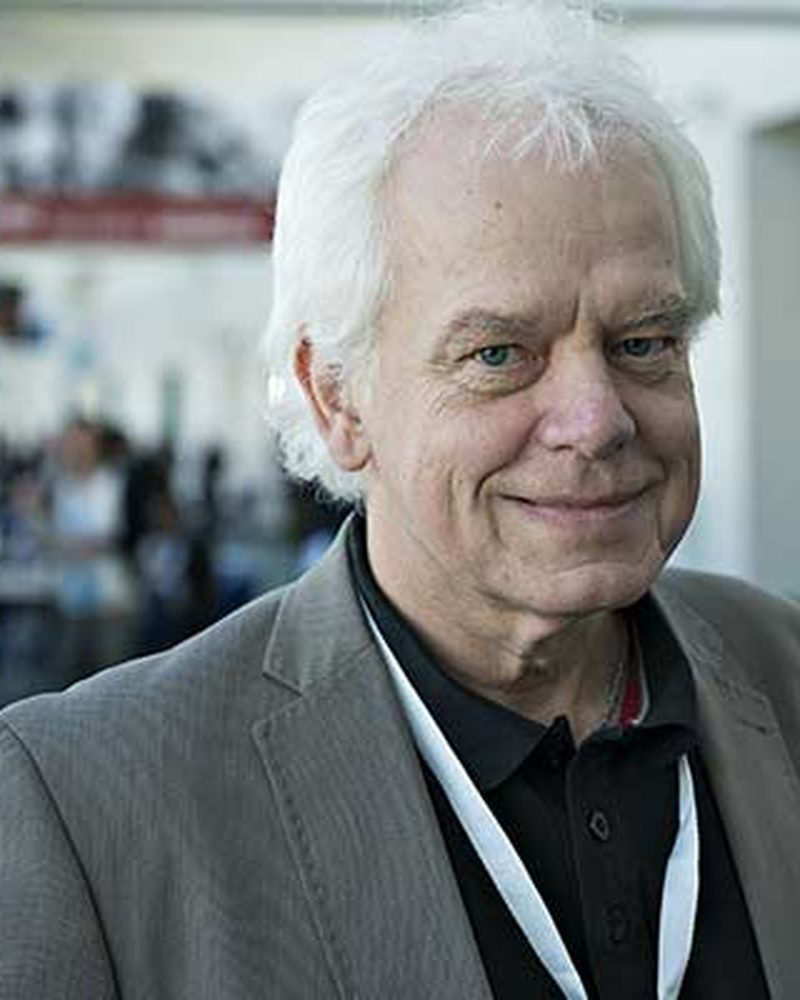
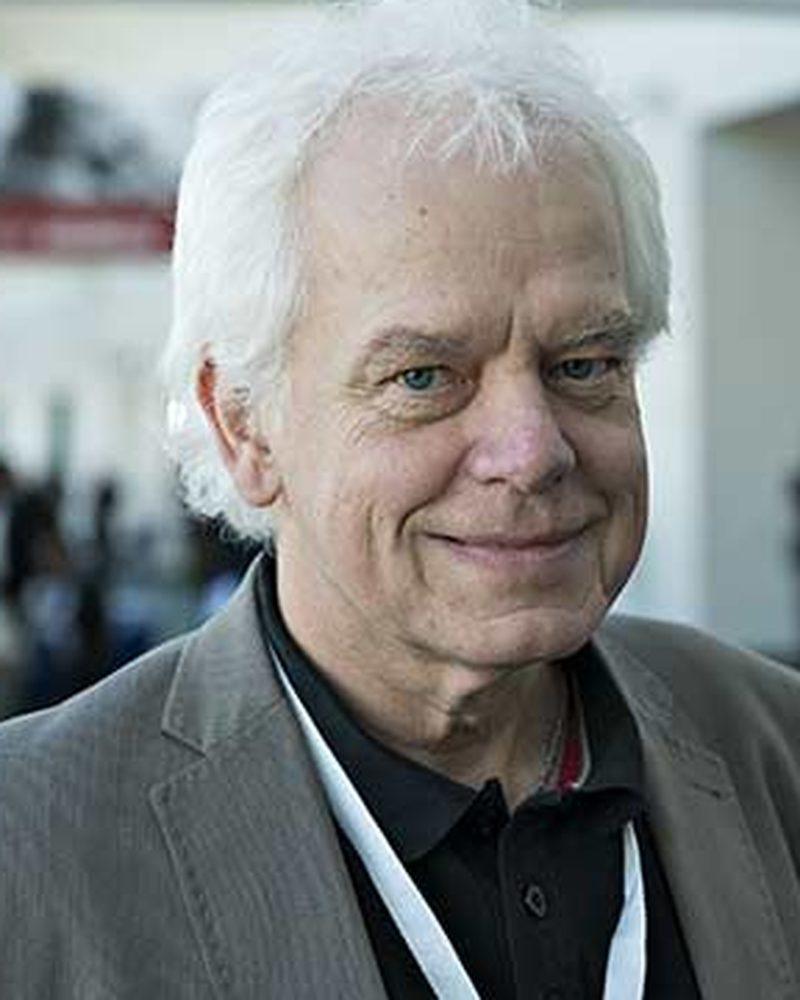
Center Niels's portrait; update Lene and Henrik bios with ORCID; add NMSG history
Claude-Session: https://claude.ai/code/session_0113jsotCNfxH92ByqoEKTTC

diff --git a/da/members/index.html b/da/members/index.html
@@ -65,17 +65,17 @@
   <img class="portrait" src="../../assets/img/people/lene-kongsgaard-nielsen.jpg" alt="Portræt af Lene Kongsgaard Nielsen" width="400" height="500" loading="lazy">
   <div class="member-body">
     <h2>Lene Kongsgaard Nielsen</h2>
-    <p class="role">Læge, ph.d., leder af QoLRC</p>
-    <p>Speciallæge i hæmatologi og leder af Quality of Life Research Center. Hendes forskning fokuserer på helbredsrelateret livskvalitet og patientrapporterede oplysninger ved myelomatose og andre hæmatologiske kræftsygdomme, herunder metoder til at måle og analysere livskvalitet i kliniske studier. <mark class="todo">To do: Lene tjekker og uddyber biografien.</mark></p>
-    <p><a href="https://portal.findresearcher.sdu.dk/da/persons/lenekn">Forskerprofil<span class="visually-hidden">: Lene Kongsgaard Nielsen</span> &rarr;</a></p>
+    <p class="role">Læge, ph.d., lektor, leder af QoLRC</p>
+    <p>Overlæge i hæmatologi, lektor ved Syddansk Universitet og leder af Quality of Life Research Center. Hun leder centrets forskning i livskvalitet ved myelomatose, herunder planlægning, indsamling og analyse af livskvalitetsdata i studier fra Nordic Myeloma Study Group og i danske kohorter uden for kliniske forsøg.</p>
+    <p><a href="https://portal.findresearcher.sdu.dk/da/persons/lenekn">Forskerprofil<span class="visually-hidden">: Lene Kongsgaard Nielsen</span> &rarr;</a></p><p class="orcid"><a href="https://orcid.org/0000-0003-2083-3870">ORCID 0000-0003-2083-3870</a></p>
   </div>
 </li><li class="card member">
   <img class="portrait" src="../../assets/img/people/henrik-frederiksen.jpg" alt="Portræt af Henrik Frederiksen" width="400" height="500" loading="lazy">
   <div class="member-body">
     <h2>Henrik Frederiksen</h2>
-    <p class="role">Læge, ph.d., klinisk professor i hæmatologi</p>
-    <p>Forskningsleder for Hæmatologisk Forskningsenhed, Odense Universitetshospital og Syddansk Universitet. Hans forskning omfatter godartede hæmatologiske sygdomme samt de komplikationer og den nedsatte livskvalitet, som aldring, skrøbelighed og andre kroniske sygdomme medfører for patienter med hæmatologisk kræft. Tidligere formand for Dansk Hæmatologisk Selskab.</p>
-    <p><a href="https://www.sdu.dk/en/forskning/haematologi">Forskerprofil<span class="visually-hidden">: Henrik Frederiksen</span> &rarr;</a></p>
+    <p class="role">Læge, ph.d., professor, forskningsleder</p>
+    <p>Overlæge og forskningsleder ved Hæmatologisk Afdeling og Forskningsenhed, Odense Universitetshospital og Syddansk Universitet. Hans forskning fokuserer på skrøbelighed og understøttende behandling ved hæmatologisk kræft, herunder hvordan vurdering af skrøbelighed kan bruges i den daglige klinik til at tilpasse behandlingen, samt godartede hæmatologiske sygdomme. Tidligere formand for Dansk Hæmatologisk Selskab.</p>
+    <p><a href="https://www.sdu.dk/en/forskning/haematologi">Forskerprofil<span class="visually-hidden">: Henrik Frederiksen</span> &rarr;</a></p><p class="orcid"><a href="https://orcid.org/0000-0001-8905-0220">ORCID 0000-0001-8905-0220</a></p>
   </div>
 </li><li class="card member">
   <img class="portrait" src="../../assets/img/people/niels-abildgaard.jpg" alt="Portræt af Niels Abildgaard" width="400" height="500" loading="lazy">

diff --git a/members/index.html b/members/index.html
@@ -65,17 +65,17 @@
   <img class="portrait" src="../assets/img/people/lene-kongsgaard-nielsen.jpg" alt="Portrait of Lene Kongsgaard Nielsen" width="400" height="500" loading="lazy">
   <div class="member-body">
     <h2>Lene Kongsgaard Nielsen</h2>
-    <p class="role">MD, PhD, Head of QoLRC</p>
-    <p>Specialist in hematology and head of the Quality of Life Research Center. Her research focuses on health-related quality of life and patient-reported outcomes in multiple myeloma and other hematologic cancers, including the methodology of measuring and analyzing quality of life in clinical studies. <mark class="todo">To do: Lene to check and expand this bio.</mark></p>
-    <p><a href="https://portal.findresearcher.sdu.dk/da/persons/lenekn">Research profile<span class="visually-hidden">: Lene Kongsgaard Nielsen</span> &rarr;</a></p>
+    <p class="role">MD, PhD, Associate Professor, Head of QoLRC</p>
+    <p>Consultant in hematology, associate professor at the University of Southern Denmark and head of the Quality of Life Research Center. She leads the center&#x27;s research on quality of life in multiple myeloma, including the design, collection and analysis of quality of life data in Nordic Myeloma Study Group trials and in real-world Danish cohorts.</p>
+    <p><a href="https://portal.findresearcher.sdu.dk/da/persons/lenekn">Research profile<span class="visually-hidden">: Lene Kongsgaard Nielsen</span> &rarr;</a></p><p class="orcid"><a href="https://orcid.org/0000-0003-2083-3870">ORCID 0000-0003-2083-3870</a></p>
   </div>
 </li><li class="card member">
   <img class="portrait" src="../assets/img/people/henrik-frederiksen.jpg" alt="Portrait of Henrik Frederiksen" width="400" height="500" loading="lazy">
   <div class="member-body">
     <h2>Henrik Frederiksen</h2>
-    <p class="role">MD, PhD, Clinical Professor in Hematology</p>
-    <p>Head of Research at the Hematology Research Unit, Odense University Hospital and University of Southern Denmark. His research covers non-malignant hematologic diseases and the complications and reduced quality of life that aging, frailty and other chronic conditions bring to patients with hematologic cancer. Former chair of the Danish Society of Hematology.</p>
-    <p><a href="https://www.sdu.dk/en/forskning/haematologi">Research profile<span class="visually-hidden">: Henrik Frederiksen</span> &rarr;</a></p>
+    <p class="role">MD, PhD, Professor, Head of Research</p>
+    <p>Consultant and Head of Research at the Department and Research Unit of Hematology, Odense University Hospital and University of Southern Denmark. His research focuses on frailty and supportive care in hematologic cancer, including how frailty assessment can be used in routine care to tailor treatment, as well as non-malignant hematologic diseases. Former chair of the Danish Society of Hematology.</p>
+    <p><a href="https://www.sdu.dk/en/forskning/haematologi">Research profile<span class="visually-hidden">: Henrik Frederiksen</span> &rarr;</a></p><p class="orcid"><a href="https://orcid.org/0000-0001-8905-0220">ORCID 0000-0001-8905-0220</a></p>
   </div>
 </li><li class="card member">
   <img class="portrait" src="../assets/img/people/niels-abildgaard.jpg" alt="Portrait of Niels Abildgaard" width="400" height="500" loading="lazy">

diff --git a/index.html b/index.html
@@ -72,7 +72,8 @@
       <p class="kicker">QoLRC</p>
       <h2>About the center</h2>
       <p>The Quality of Life Research Center (QoLRC) studies how hematologic diseases and their treatment affect patients&#x27; everyday lives. We work with patient-reported outcomes (PROs) and health-related quality of life (HRQoL) in multiple myeloma, other hematologic cancers and benign hematologic conditions such as autoimmune cytopenias.</p>
-<p>The center is based in the Department of Hematology at Odense University Hospital and is affiliated with the University of Southern Denmark. We lead and contribute to national and multinational studies in close collaboration with clinicians, statisticians, patient organizations and research partners across the Nordic countries and Europe.</p>
+<p>The center is based in the Department of Hematology at Odense University Hospital and is affiliated with the University of Southern Denmark. For 35 years we have been part of the Nordic Myeloma Study Group, where our focus has been designing, collecting and analyzing quality of life data in clinical trials. We have also collected long-term quality of life data from Danish patients outside clinical trials.</p>
+<p>Our vision is to develop an interdisciplinary center for research in quality of life, working closely with clinicians, statisticians, patient organizations and research partners across the Nordic countries and Europe.</p>
     </div>
     <aside class="contact-box" aria-labelledby="cb-h">
       <h2 id="cb-h">Get in touch</h2>

diff --git a/da/index.html b/da/index.html
@@ -72,7 +72,8 @@
       <p class="kicker">QoLRC</p>
       <h2>Om centret</h2>
       <p>Quality of Life Research Center (QoLRC) undersøger, hvordan hæmatologiske sygdomme og deres behandling påvirker patienternes hverdag. Vi arbejder med patientrapporterede oplysninger (PRO) og helbredsrelateret livskvalitet (HRQoL) ved myelomatose, andre hæmatologiske kræftsygdomme og godartede hæmatologiske sygdomme som autoimmune cytopenier.</p>
-<p>Centret har base i Hæmatologisk Afdeling på Odense Universitetshospital og er tilknyttet Syddansk Universitet. Vi leder og bidrager til nationale og internationale studier i tæt samarbejde med klinikere, statistikere, patientforeninger og forskningspartnere i Norden og Europa.</p>
+<p>Centret har base i Hæmatologisk Afdeling på Odense Universitetshospital og er tilknyttet Syddansk Universitet. I 35 år har vi været en del af Nordic Myeloma Study Group, hvor vores fokus har været at planlægge, indsamle og analysere livskvalitetsdata i kliniske forsøg. Vi har også indsamlet langsigtede livskvalitetsdata fra danske patienter uden for kliniske forsøg.</p>
+<p>Vores vision er at udvikle et tværfagligt center for forskning i livskvalitet i tæt samarbejde med klinikere, statistikere, patientforeninger og forskningspartnere i Norden og Europa.</p>
     </div>
     <aside class="contact-box" aria-labelledby="cb-h">
       <h2 id="cb-h">Kontakt os</h2>

diff --git a/assets/style.css b/assets/style.css
@@ -183,6 +183,7 @@ ul { padding: 0; margin: 0; list-style: none; }
 .portrait-placeholder span { position: absolute; left: 0; right: 0; bottom: 1rem; text-align: center; font-size: .85rem; font-weight: 700; color: var(--muted); }
 .member-body { padding: 1.5rem 1.6rem 1.75rem; }
 .member-body h2 { font-size: 1.3rem; margin-bottom: .6rem; }
+.orcid { font-size: .9rem; margin-top: -.4rem; }
 .role { color: var(--accent-dark); margin-top: -.3rem; font-weight: 700; }
 
 /* Publications */

diff --git a/partners/index.html b/partners/index.html
@@ -80,7 +80,7 @@
 </li><li class="card partner">
   <p class="tags"><span class="tag">Nordic countries</span></p>
   <h2>Nordic Myeloma Study Group (NMSG)</h2>
-  <p>Nordic collaborative group for clinical myeloma research.</p>
+  <p>Collaborative group for clinical myeloma research in Norway, Sweden, Finland, Estonia, Iceland and Denmark. QoLRC has been part of the group for 35 years.</p>
   
 </li><li class="card partner">
   <p class="tags"><span class="tag">Denmark</span></p>

diff --git a/da/partners/index.html b/da/partners/index.html
@@ -80,7 +80,7 @@
 </li><li class="card partner">
   <p class="tags"><span class="tag">Norden</span></p>
   <h2>Nordic Myeloma Study Group (NMSG)</h2>
-  <p>Nordisk samarbejdsgruppe for klinisk myelomatoseforskning.</p>
+  <p>Samarbejdsgruppe for klinisk myelomatoseforskning i Norge, Sverige, Finland, Estland, Island og Danmark. QoLRC har været en del af gruppen i 35 år.</p>
   
 </li><li class="card partner">
   <p class="tags"><span class="tag">Danmark</span></p>

diff --git a/src/content.py b/src/content.py
@@ -49,11 +49,13 @@ ABOUT = {
     "intro": {
         "en": [
             "The Quality of Life Research Center (QoLRC) studies how hematologic diseases and their treatment affect patients' everyday lives. We work with patient-reported outcomes (PROs) and health-related quality of life (HRQoL) in multiple myeloma, other hematologic cancers and benign hematologic conditions such as autoimmune cytopenias.",
-            "The center is based in the Department of Hematology at Odense University Hospital and is affiliated with the University of Southern Denmark. We lead and contribute to national and multinational studies in close collaboration with clinicians, statisticians, patient organizations and research partners across the Nordic countries and Europe.",
+            "The center is based in the Department of Hematology at Odense University Hospital and is affiliated with the University of Southern Denmark. For 35 years we have been part of the Nordic Myeloma Study Group, where our focus has been designing, collecting and analyzing quality of life data in clinical trials. We have also collected long-term quality of life data from Danish patients outside clinical trials.",
+            "Our vision is to develop an interdisciplinary center for research in quality of life, working closely with clinicians, statisticians, patient organizations and research partners across the Nordic countries and Europe.",
         ],
         "da": [
             "Quality of Life Research Center (QoLRC) undersøger, hvordan hæmatologiske sygdomme og deres behandling påvirker patienternes hverdag. Vi arbejder med patientrapporterede oplysninger (PRO) og helbredsrelateret livskvalitet (HRQoL) ved myelomatose, andre hæmatologiske kræftsygdomme og godartede hæmatologiske sygdomme som autoimmune cytopenier.",
-            "Centret har base i Hæmatologisk Afdeling på Odense Universitetshospital og er tilknyttet Syddansk Universitet. Vi leder og bidrager til nationale og internationale studier i tæt samarbejde med klinikere, statistikere, patientforeninger og forskningspartnere i Norden og Europa.",
+            "Centret har base i Hæmatologisk Afdeling på Odense Universitetshospital og er tilknyttet Syddansk Universitet. I 35 år har vi været en del af Nordic Myeloma Study Group, hvor vores fokus har været at planlægge, indsamle og analysere livskvalitetsdata i kliniske forsøg. Vi har også indsamlet langsigtede livskvalitetsdata fra danske patienter uden for kliniske forsøg.",
+            "Vores vision er at udvikle et tværfagligt center for forskning i livskvalitet i tæt samarbejde med klinikere, statistikere, patientforeninger og forskningspartnere i Norden og Europa.",
         ],
     },
     "themes_heading": {"en": "Our research", "da": "Vores forskning"},
@@ -356,25 +358,27 @@ MEMBERS_INTRO = {
 MEMBERS = [
     {
         "name": "Lene Kongsgaard Nielsen",
-        "title": {"en": "MD, PhD, Head of QoLRC", "da": "Læge, ph.d., leder af QoLRC"},
+        "title": {"en": "MD, PhD, Associate Professor, Head of QoLRC", "da": "Læge, ph.d., lektor, leder af QoLRC"},
         "bio": {
-            "en": "Specialist in hematology and head of the Quality of Life Research Center. Her research focuses on health-related quality of life and patient-reported outcomes in multiple myeloma and other hematologic cancers, including the methodology of measuring and analyzing quality of life in clinical studies. TODO(Lene to check and expand this bio.)",
-            "da": "Speciallæge i hæmatologi og leder af Quality of Life Research Center. Hendes forskning fokuserer på helbredsrelateret livskvalitet og patientrapporterede oplysninger ved myelomatose og andre hæmatologiske kræftsygdomme, herunder metoder til at måle og analysere livskvalitet i kliniske studier. TODO(Lene tjekker og uddyber biografien.)",
+            "en": "Consultant in hematology, associate professor at the University of Southern Denmark and head of the Quality of Life Research Center. She leads the center's research on quality of life in multiple myeloma, including the design, collection and analysis of quality of life data in Nordic Myeloma Study Group trials and in real-world Danish cohorts.",
+            "da": "Overlæge i hæmatologi, lektor ved Syddansk Universitet og leder af Quality of Life Research Center. Hun leder centrets forskning i livskvalitet ved myelomatose, herunder planlægning, indsamling og analyse af livskvalitetsdata i studier fra Nordic Myeloma Study Group og i danske kohorter uden for kliniske forsøg.",
         },
         "email": "",
         "photo": "lene-kongsgaard-nielsen.jpg",
         "profile": "https://portal.findresearcher.sdu.dk/da/persons/lenekn",
+        "orcid": "0000-0003-2083-3870",
     },
     {
         "name": "Henrik Frederiksen",
-        "title": {"en": "MD, PhD, Clinical Professor in Hematology", "da": "Læge, ph.d., klinisk professor i hæmatologi"},
+        "title": {"en": "MD, PhD, Professor, Head of Research", "da": "Læge, ph.d., professor, forskningsleder"},
         "bio": {
-            "en": "Head of Research at the Hematology Research Unit, Odense University Hospital and University of Southern Denmark. His research covers non-malignant hematologic diseases and the complications and reduced quality of life that aging, frailty and other chronic conditions bring to patients with hematologic cancer. Former chair of the Danish Society of Hematology.",
-            "da": "Forskningsleder for Hæmatologisk Forskningsenhed, Odense Universitetshospital og Syddansk Universitet. Hans forskning omfatter godartede hæmatologiske sygdomme samt de komplikationer og den nedsatte livskvalitet, som aldring, skrøbelighed og andre kroniske sygdomme medfører for patienter med hæmatologisk kræft. Tidligere formand for Dansk Hæmatologisk Selskab.",
+            "en": "Consultant and Head of Research at the Department and Research Unit of Hematology, Odense University Hospital and University of Southern Denmark. His research focuses on frailty and supportive care in hematologic cancer, including how frailty assessment can be used in routine care to tailor treatment, as well as non-malignant hematologic diseases. Former chair of the Danish Society of Hematology.",
+            "da": "Overlæge og forskningsleder ved Hæmatologisk Afdeling og Forskningsenhed, Odense Universitetshospital og Syddansk Universitet. Hans forskning fokuserer på skrøbelighed og understøttende behandling ved hæmatologisk kræft, herunder hvordan vurdering af skrøbelighed kan bruges i den daglige klinik til at tilpasse behandlingen, samt godartede hæmatologiske sygdomme. Tidligere formand for Dansk Hæmatologisk Selskab.",
         },
         "email": "",
         "photo": "henrik-frederiksen.jpg",
         "profile": "https://www.sdu.dk/en/forskning/haematologi",
+        "orcid": "0000-0001-8905-0220",
     },
     {
         "name": "Niels Abildgaard",
@@ -466,7 +470,7 @@ PARTNERS = [
     },
     {
         "name": {"en": "Nordic Myeloma Study Group (NMSG)", "da": "Nordic Myeloma Study Group (NMSG)"},
-        "text": {"en": "Nordic collaborative group for clinical myeloma research.", "da": "Nordisk samarbejdsgruppe for klinisk myelomatoseforskning."},
+        "text": {"en": "Collaborative group for clinical myeloma research in Norway, Sweden, Finland, Estonia, Iceland and Denmark. QoLRC has been part of the group for 35 years.", "da": "Samarbejdsgruppe for klinisk myelomatoseforskning i Norge, Sverige, Finland, Estland, Island og Danmark. QoLRC har været en del af gruppen i 35 år."},
         "url": "",
         "country": {"en": "Nordic countries", "da": "Norden"},
     },

diff --git a/src/build.py b/src/build.py
@@ -397,6 +397,8 @@ def members(lang):
             links += f'<p><a href="mailto:{m["email"]}">{esc(m["email"])}</a></p>'
         if m.get("profile"):
             links += f'<p><a href="{m["profile"]}">{UI["profile"][lang]}<span class="visually-hidden">: {esc(m["name"])}</span> &rarr;</a></p>'
+        if m.get("orcid"):
+            links += f'<p class="orcid"><a href="https://orcid.org/{m["orcid"]}">ORCID {m["orcid"]}</a></p>'
         cards.append(f"""<li class="card member">
   {pic}
   <div class="member-body">
